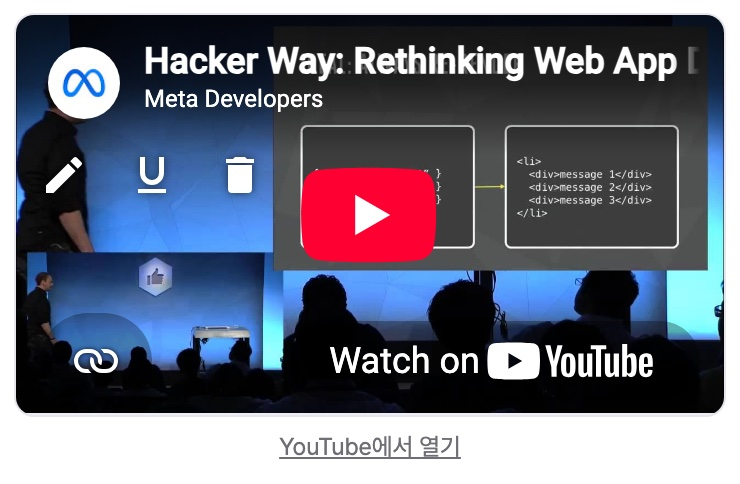
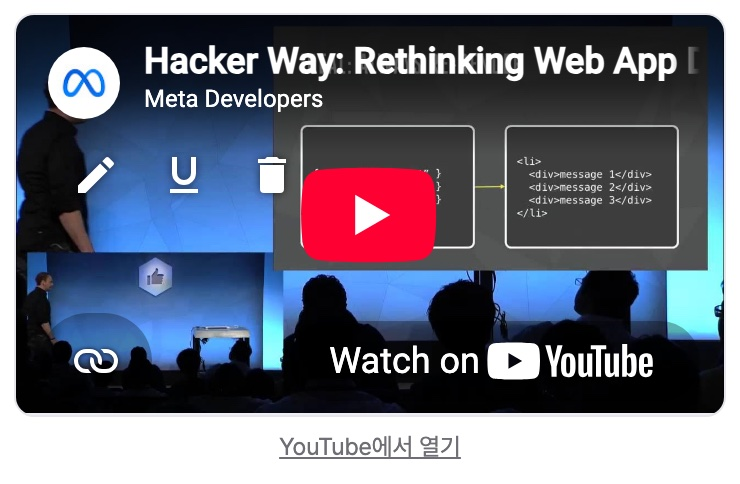
feat(memo): 편집기 임베드 도구 버튼의 왼쪽 들여쓰기를 YouTube 링크 복사 버튼과 맞춘다

Changed region(s): [[0.1865, 0.3099, 0.4041, 0.4029], [0.0622, 0.3099, 0.1554, 0.4029]]

diff --git a/apps/react/src/apps/memo/styles/markdown.css b/apps/react/src/apps/memo/styles/markdown.css
@@ -411,9 +411,9 @@
 .memo .memo-embed-tools {
 	display: flex;
 	position: absolute;
-	/* YouTube 재생기 맨 위의 채널 아이콘(48px)·제목 줄 바로 아래, 왼쪽 끝을 채널 아이콘에 맞춘다 */
+	/* YouTube 재생기 맨 위의 채널 아이콘(48px)·제목 줄 바로 아래. 왼쪽은 재생기 안 링크 복사 버튼과 같은 20px이라 아이콘이 같은 세로줄(28px)에 선다 */
 	top: 60px;
-	left: var(--space-4);
+	left: var(--space-20);
 	gap: var(--space-4);
 	opacity: 0;
 	transition: opacity var(--duration-fast) var(--ease-out);
